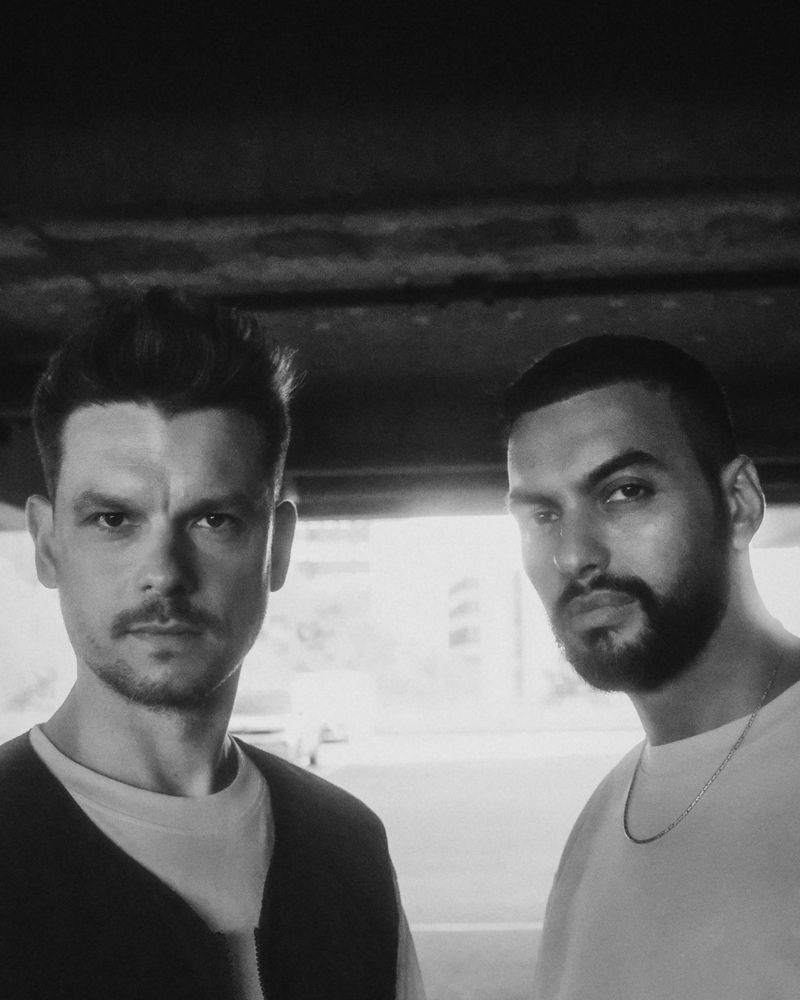
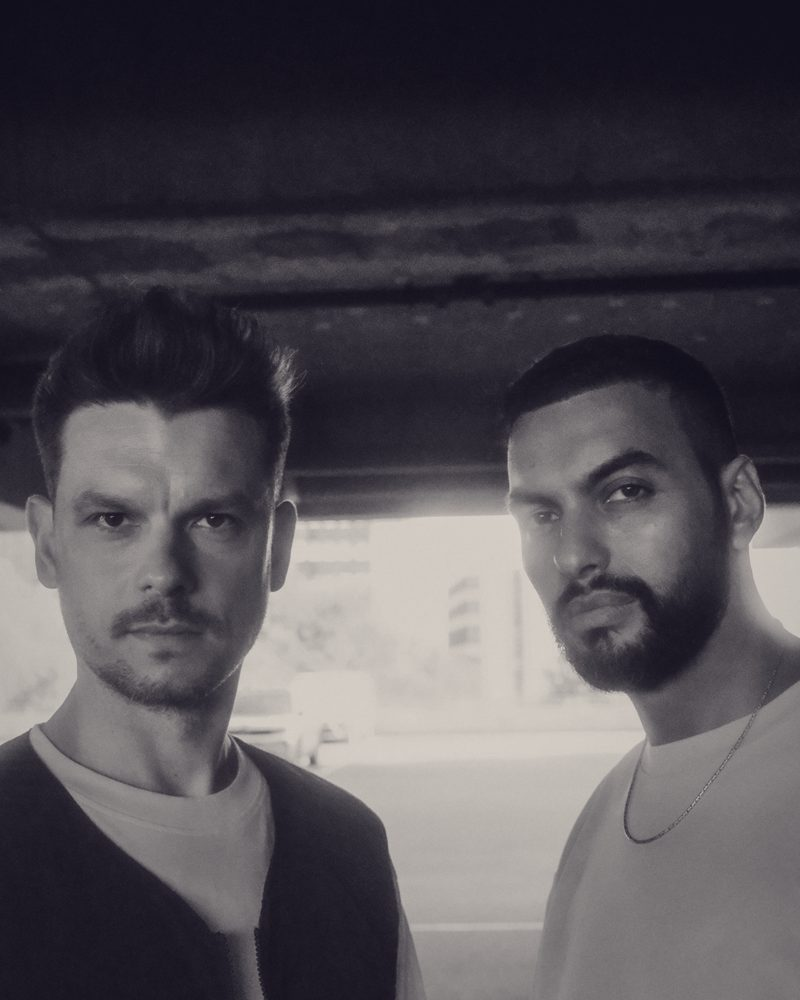
Künstlerfotos ruhiger: getönt in die Palette, unter dem Namen, Ränder lösen sich ins Panel
Statt hartem Schwarz-Weiß: flache Kurve, Schatten auf dem Violett-Schwarz
des Hintergrunds, Lichter unter dem Weiß der Schrift, weniger Korn. Das
Foto steht jetzt zwischen Name und Fakten und läuft an den Rändern ins
Panel aus; es blendet weich aus der Unschärfe ein.

Claude-Session: https://claude.ai/code/session_01V9yt5RgtHZxEAjR6PtaCu8

diff --git a/src/style.css b/src/style.css
@@ -29,11 +29,13 @@ body.live .fade{opacity:1;visibility:visible;transition:opacity 1.6s var(--ease)
 
 #panel{position:fixed;z-index:5;right:0;top:0;bottom:0;width:min(420px,100vw);background:linear-gradient(90deg,color-mix(in srgb,var(--bg) 0%,transparent),color-mix(in srgb,var(--bg) 78%,transparent) 18%,color-mix(in srgb,var(--bg) 96%,transparent));padding:calc(76px + env(safe-area-inset-top,0px)) 28px calc(40px + env(safe-area-inset-bottom,0px)) 52px;box-sizing:border-box;overflow-y:auto;transform:translateX(100%);opacity:0;transition:transform .9s var(--ease),opacity .6s var(--ease);scrollbar-width:none}
 #panel.open{transform:none;opacity:1}
-/* artist photo: one look for all (4:5, same face scale, black and white with grain, baked into the files) */
-#pPhoto{margin:0 0 22px;aspect-ratio:4/5;max-width:340px;background:color-mix(in srgb,var(--fg) 5%,transparent);overflow:hidden}
+/* artist photo, between name and facts: toned into the palette in the file itself (shadows on the background violet,
+   highlights below the text white), and its edges dissolve into the panel like a light in the dark */
+#pPhoto{margin:4px 0 22px;aspect-ratio:4/5;max-width:300px;overflow:hidden;
+  -webkit-mask-image:linear-gradient(90deg,transparent,#000 14%,#000 86%,transparent),linear-gradient(180deg,transparent,#000 10%,#000 72%,transparent);-webkit-mask-composite:source-in;mask-image:linear-gradient(90deg,transparent,#000 14%,#000 86%,transparent),linear-gradient(180deg,transparent,#000 10%,#000 72%,transparent);mask-composite:intersect}
 #pPhoto[hidden]{display:none}
-#pPhoto img{display:block;width:100%;height:100%;object-fit:cover;opacity:0;transform:scale(1.03);transition:opacity .9s var(--ease),transform 1.4s var(--ease)}
-#pPhoto.in img{opacity:1;transform:none}
+#pPhoto img{display:block;width:100%;height:100%;object-fit:cover;opacity:0;transform:scale(1.04);filter:blur(4px);transition:opacity 1.2s var(--ease),transform 1.6s var(--ease),filter 1.2s var(--ease)}
+#pPhoto.in img{opacity:.92;transform:none;filter:none}
 #panel .kind{font-size:10px;letter-spacing:.14em;text-transform:uppercase;color:var(--accent)}
 #panel h2{font-family:var(--display);font-weight:800;font-size:clamp(24px,3.4vw,34px);line-height:1.02;margin:10px 0 20px;text-wrap:balance;text-transform:uppercase;letter-spacing:-.01em}
 #panel p{font-size:13px;line-height:1.65;margin:0 0 24px;max-width:38ch;color:color-mix(in srgb,var(--fg) 86%,transparent)}
@@ -88,7 +90,7 @@ body.sound #player:hover a,body.sound #player:focus-within a{max-width:260px;opa
   /* bottom sheet on phones: the focused dot stays visible above it */
   #panel{top:auto;height:56vh;height:56dvh;width:100%;padding:56px 20px calc(32px + env(safe-area-inset-bottom,0px));background:linear-gradient(180deg,color-mix(in srgb,var(--bg) 0%,transparent),color-mix(in srgb,var(--bg) 90%,transparent) 40px,color-mix(in srgb,var(--bg) 97%,transparent));transform:translateY(100%)}
   #panel h2{font-size:26px;margin-bottom:14px}
-  #pPhoto{aspect-ratio:16/10;max-width:none;margin-bottom:18px}#pPhoto img{object-position:50% 34%}
+  #pPhoto{aspect-ratio:16/10;max-width:none;margin-bottom:14px}#pPhoto img{object-position:50% 34%}
   #close{top:20px}
 }
 @media (prefers-reduced-motion:reduce){#panel,.fade,body.live .fade{transition:none}body.sound #play i{animation:none}}

diff --git a/index.html b/index.html
@@ -29,9 +29,9 @@
 
 <aside id="panel" aria-live="polite" aria-label="Details" inert>
   <button type="button" id="close" class="ui">Close</button>
-  <figure id="pPhoto" hidden><img alt="" decoding="async"></figure>
   <div class="kind" id="pKind"></div>
   <h2 id="pTitle"></h2>
+  <figure id="pPhoto" hidden><img alt="" decoding="async"></figure>
   <div class="meta" id="pMeta"></div>
   <p id="pNote"></p>
   <div class="edges" id="pEdges"></div>

diff --git a/scripts/artist-photos.py b/scripts/artist-photos.py
@@ -1,5 +1,5 @@
 # usage: SRC=<folder with originals>/ python3 scripts/artist-photos.py public/assets/artists
-# One look for every artist photo: same 4:5 crop at the same face scale, black and white, analogue grain.
+# One look for every artist photo: same 4:5 crop at the same face scale, toned monochrome, soft grain.
 import sys, numpy as np
 from PIL import Image, ImageFilter
 import os
@@ -14,11 +14,14 @@ SRC={
 }
 K=6.0; EYE=.40; W,H=800,1000
 rng=np.random.default_rng(7)
+# Toned into the site instead of hard black and white: shadows sit on the background violet-black,
+# highlights stop at the warm off-white of the text, contrast stays soft.
+SHADOW=np.array([18,15,28],np.float32)/255    # a touch above --bg #07060c, so faces never drown
+LIGHT=np.array([212,206,198],np.float32)/255  # under --fg #f2eee6, so the photo never outshines the type
 def curve(x):
     x=np.clip(x,0,1)
-    s=x*x*(3-2*x)               # S-curve
-    y=.55*s+.45*x
-    return .06+y*(.90-.06)   # lifted blacks, soft highlights: print paper, not screen
+    s=x*x*(3-2*x)
+    return .78*x+.22*s                         # barely an S: tone, not punch
 for name,(f,ex,ey,d) in SRC.items():
     im=Image.open(U+f).convert('RGB')
     ch=d*K; cw=ch*.8
@@ -28,7 +31,7 @@ for name,(f,ex,ey,d) in SRC.items():
     im=im.crop(box).resize((W,H), Image.LANCZOS)
     a=np.asarray(im).astype(np.float32)/255
     L=a[...,0]*.36+a[...,1]*.50+a[...,2]*.14                 # panchromatic film, skin a touch brighter
-    lo,hi=np.percentile(L,1.5),np.percentile(L,99.2)
+    lo,hi=np.percentile(L,.5),np.percentile(L,99.8)
     L=(L-lo)/max(hi-lo,1e-3)
     L=curve(L)
     # halation-ish softness: a little of a blurred copy on top
@@ -36,11 +39,13 @@ for name,(f,ex,ey,d) in SRC.items():
     L=L*.86+np.maximum(L,soft)*.14
     # vignette
     yy,xx=np.mgrid[0:H,0:W]; r=np.sqrt(((xx-W/2)/(W*.62))**2+((yy-H*.44)/(H*.62))**2)
-    L*=1-.22*np.clip(r-.55,0,1)**1.4
+    L*=1-.30*np.clip(r-.5,0,1)**1.3
     # grain: clumped, strongest in the mid-tones
     g=rng.normal(0,1,(H,W)).astype(np.float32)
     g=np.asarray(Image.fromarray(((g*40)+128).clip(0,255).astype(np.uint8)).filter(ImageFilter.GaussianBlur(.7))).astype(np.float32)/255-.5
-    L+=g*.16*(.35+1.3*L*(1-L))
-    out=Image.fromarray((np.clip(L,0,1)*255).astype(np.uint8),'L')
-    out.save(f'{OUT}/{name}.jpg', quality=80, optimize=True, progressive=True)
+    L+=g*.10*(.35+1.3*L*(1-L))
+    L=np.clip(L,0,1)[...,None]
+    rgb=SHADOW+(LIGHT-SHADOW)*L
+    out=Image.fromarray((rgb*255).clip(0,255).astype(np.uint8),'RGB')
+    out.save(f'{OUT}/{name}.jpg', quality=82, optimize=True, progressive=True)
     print(name, box)
